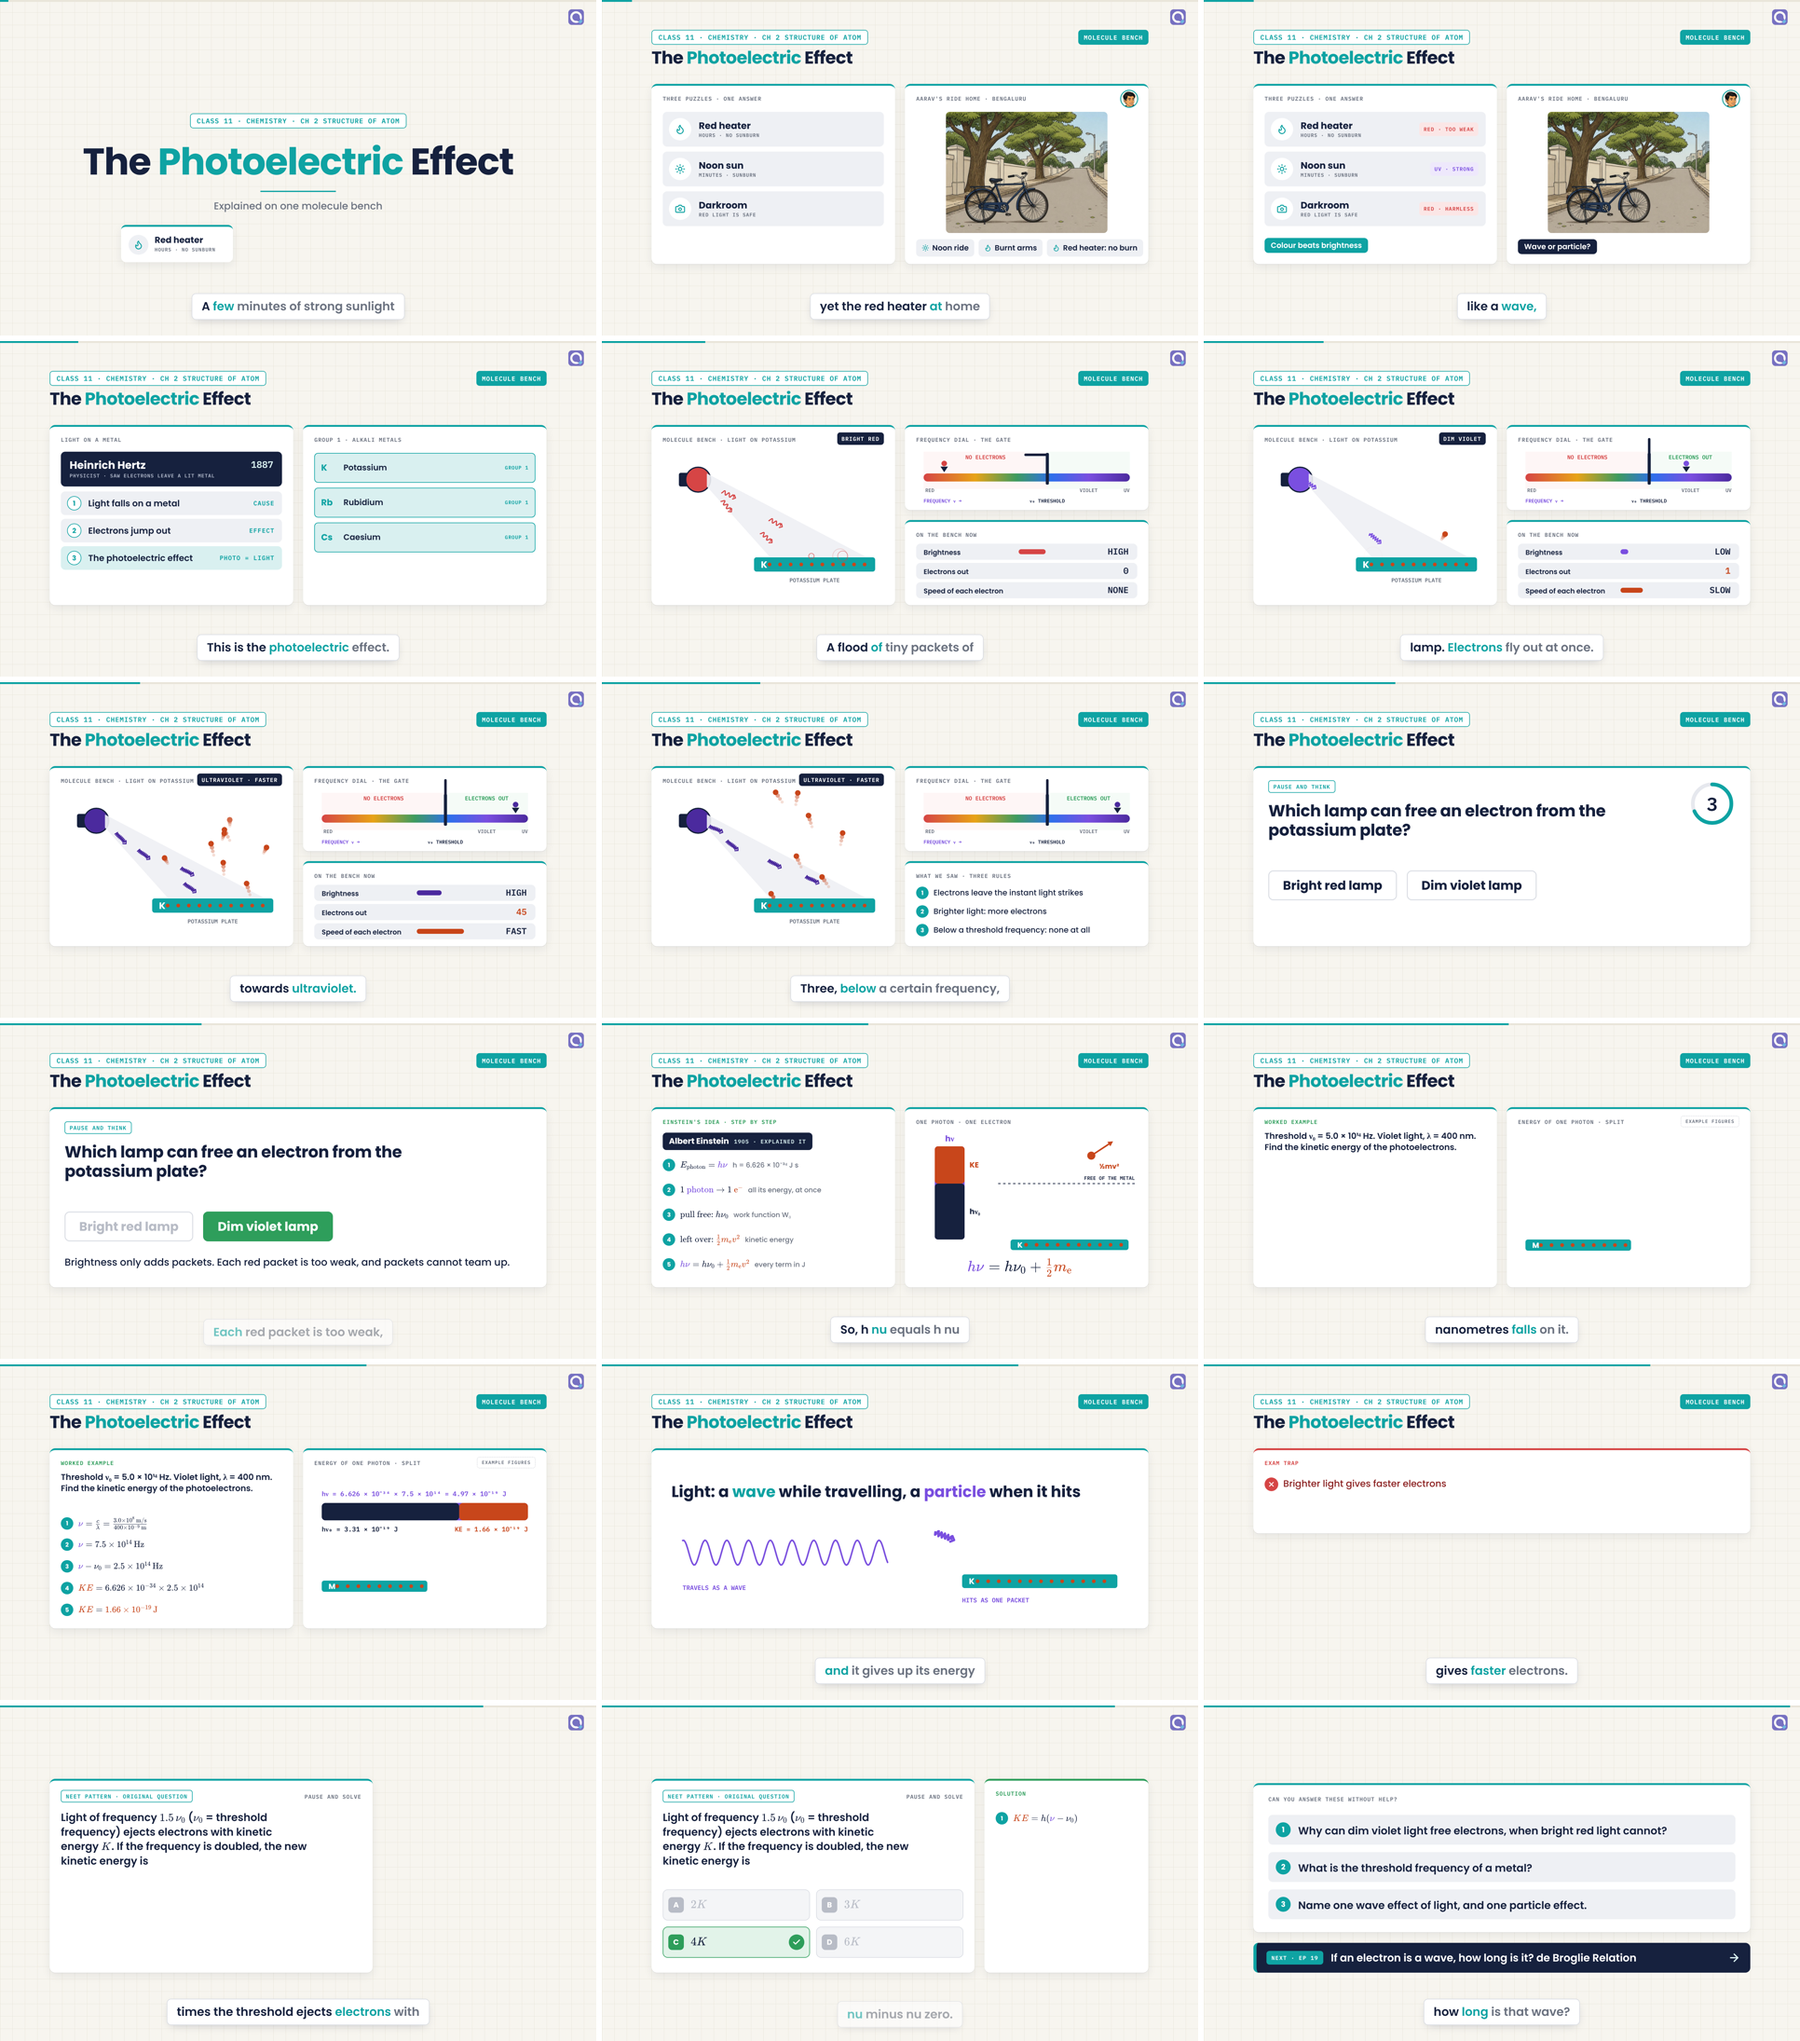
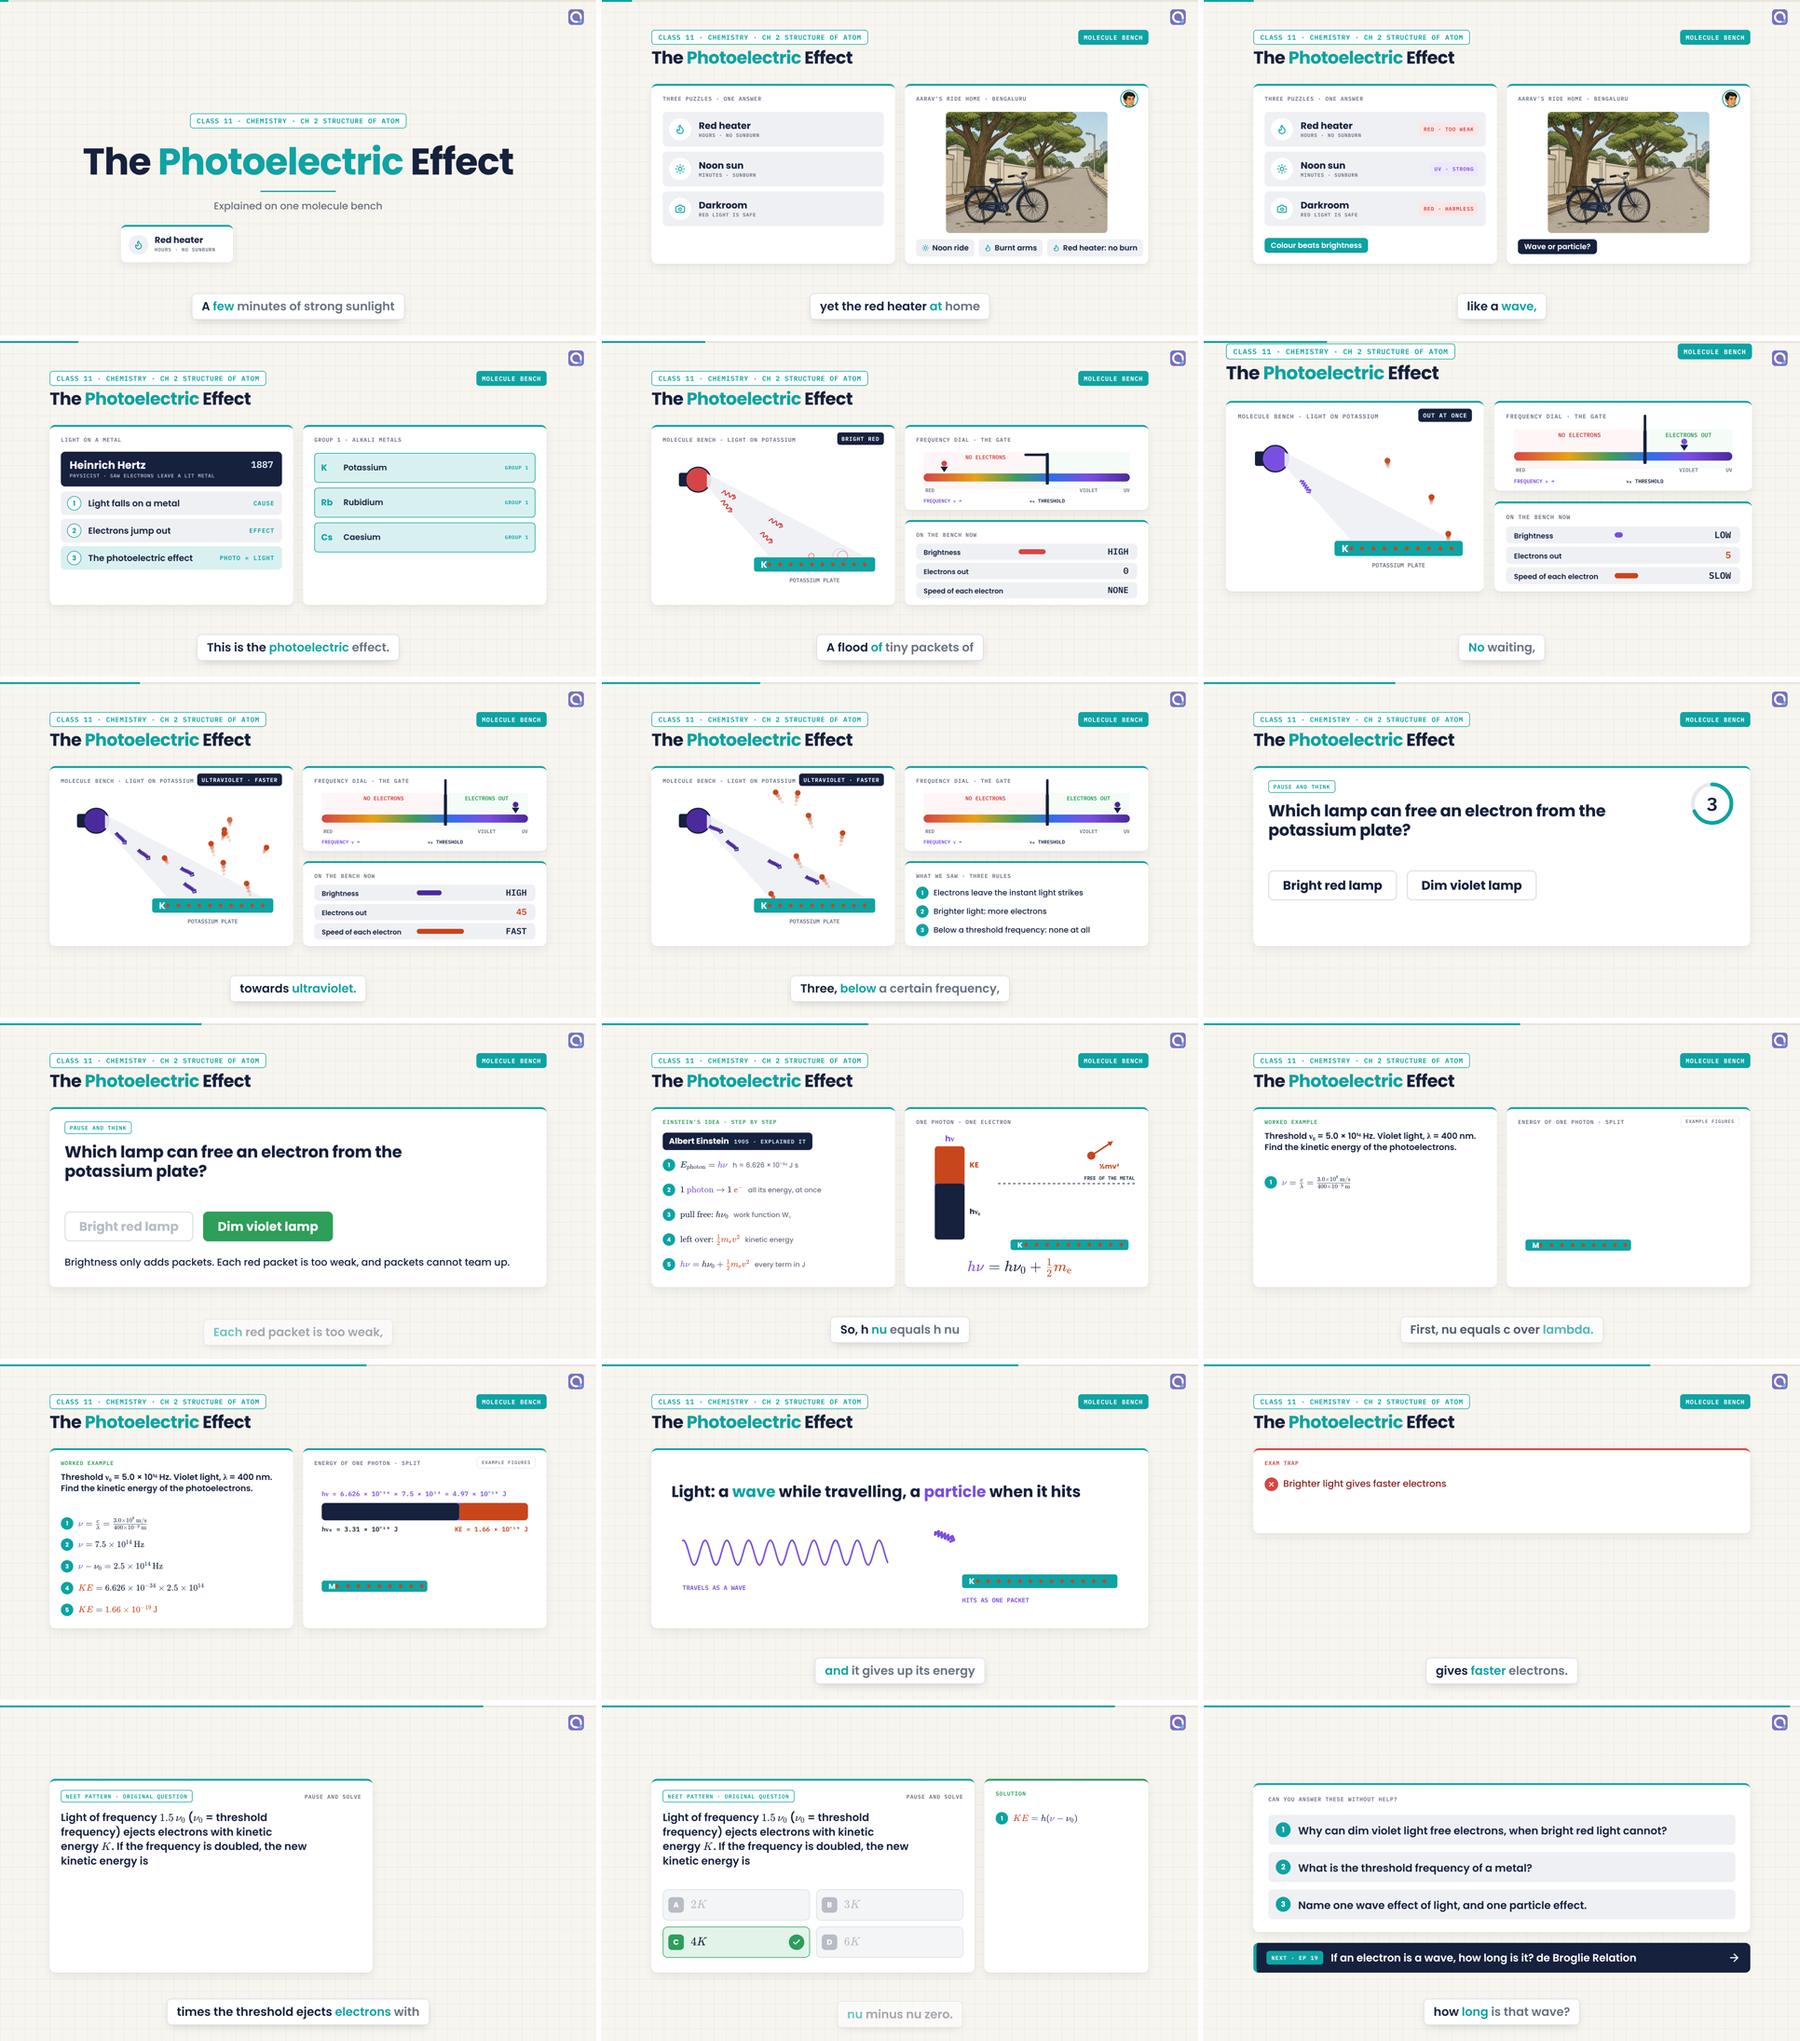
WIP puc-chemistry: agent drafts in progress
Claude-Session: https://claude.ai/code/session_018pEMndGsCGiJhJPmmamJ3s

Changed region(s): [[0.6832, 0.1553, 0.9938, 0.3105]]

diff --git a/videos/puc-chemistry-periodic-trends-across-periods-and-down-groups/scene.js b/videos/puc-chemistry-periodic-trends-across-periods-and-down-groups/scene.js
@@ -92,7 +92,7 @@ const curvePts = P3.slice(0, 7).map((_, i) => [DX(i) + 38, 380 - RE[i] * 250]);
 const dCur = mk(dsv, 'path', { d: 'M' + curvePts.map(p => p.map(v => v.toFixed(1)).join(' ')).join(' L'), fill: 'none', stroke: NC, 'stroke-width': 5, 'stroke-linecap': 'round', 'stroke-linejoin': 'round' });
 const dAr = mk(dsv, 'circle', { cx: DX(7) + 38, cy: 380 - RE[7] * 250, r: 9, fill: C.dim });
 const eNa = mk(dsv, 'circle', { r: 9, fill: EC }), eCl = mk(dsv, 'circle', { r: 9, fill: EC });
-const ionT = [['Na⁺', DX(0) + 38, NC], ['Cl⁻', DX(6) + 38, NC]].map(([s, x, c]) => txt(dsv, x, 120, s, { 'text-anchor': 'middle', 'font-family': 'Poppins', 'font-weight': 700, 'font-size': 30, fill: c }));
+const ionT = [['Na⁺', DX(0) + 92, NC], ['Cl⁻', DX(6) - 16, NC]].map(([s, x, c]) => txt(dsv, x, 168, s, { 'text-anchor': 'middle', 'font-family': 'Poppins', 'font-weight': 700, 'font-size': 30, fill: c }));
 const lowT = txt(dsv, DX(3) + 38, 300, 'LOWEST', { 'text-anchor': 'middle', fill: HC, 'font-weight': 600 });
 const fullT = txt(dsv, DX(7) + 38, 344, 'FULL', { 'text-anchor': 'middle', fill: C.mute, 'font-weight': 600 });
 
@@ -145,7 +145,7 @@ const nx = PUC.next($('#sF'), { label: 'NEXT · EP 37', topic: 'Why does boron b
 const head = PUC.header({ tMorph, tOut: tQ - 0.05 });
 const sweep = PUC.sweepRun(SW);
 const caps = M.captions($('#cap'), M.CUES.order);
-const camF = M.camera($('#cam'), [[0, 1.05, 960, 520], [0.15, 1, 960, 540, [4.5, 1]], [wt('S2', 'caesium') - 0.3, 1.1, 700, 600], [T0('S3') + 0.2, 1, 960, 540]]);
+const camF = M.camera($('#cam'), [[0, 1.05, 960, 520], [0.15, 1, 960, 540, [4.5, 1]], [wt('S2', 'caesium') - 0.3, 1.05, 900, 560], [T0('S3') + 0.2, 1, 960, 540]]);
 let geo = null;
 function measure() {
   geo = {};

diff --git a/videos/puc-chemistry-periods-groups-and-blocks/scene.js b/videos/puc-chemistry-periods-groups-and-blocks/scene.js
@@ -121,7 +121,7 @@ const BF = [['s', 's-block', 'GROUPS 1 AND 2', 'ns^{1-2}', 'REACTIVE METALS', ''
   ['d', 'd-block', 'GROUPS 3 TO 12', '(n-1)d^{1-10}\\,ns^{0-2}', 'TRANSITION<br>ELEMENTS', `\\text{group} = ${tc(DC, 'd')} + ${tc(SC, 's')} \\text{ electrons}`], ['f', 'f-block', 'TWO ROWS AT THE BOTTOM', '(n-2)f^{1-14}\\,(n-1)d^{0-1}\\,ns^2', 'INNER TRANSITION<br>ELEMENTS', '']];
 $('#bfs').innerHTML = BF.map(([k, n, g, cf, nat, ex]) => `<div class="bf" id="bfk${k}"><div class="bt" style="color:${BCOL[k]}">${n}</div><div class="bg">${g}</div><div class="bn">${nat}</div><div class="bc">${K(cf)}</div>${ex ? `<div class="bc" style="top:214px;font-size:26px" id="bfx">${K(ex)}</div>` : ''}</div>`).join('');
 const avD = PUC.avatar($('#sS'), { x: 160 + 36, y: 270 + 474, who: 'Diya', face: IMG + 'diya-face.jpg', text: 'One clue gives the whole address!' });
-const th1 = PUC.think($('#th1'), { q: `Helium is ${K(`1s^${tc(EC, '2')}`)}. So why is it in group 18, and not in group 2?`, opts: ['Its only shell is full', 'It has two outer electrons'], right: 0, why: 'A full shell, like neon and argon: helium behaves like a noble gas.' });
+const th1 = PUC.think($('#th1'), { q: `Helium is ${K(`1s^{${tc(EC, '2')}}`)}. So why is it in group 18, and not in group 2?`, opts: ['Its only shell is full', 'It has two outer electrons'], right: 0, why: 'A full shell, like neon and argon: helium behaves like a noble gas.' });
 
 /* ---------- statement ---------- */
 $('#stF').innerHTML = K(`${tc(SC, 's')} \\quad ${tc(PC, 'p')} \\quad ${tc(DC, 'd')} \\quad ${tc(FC, 'f')}`);
